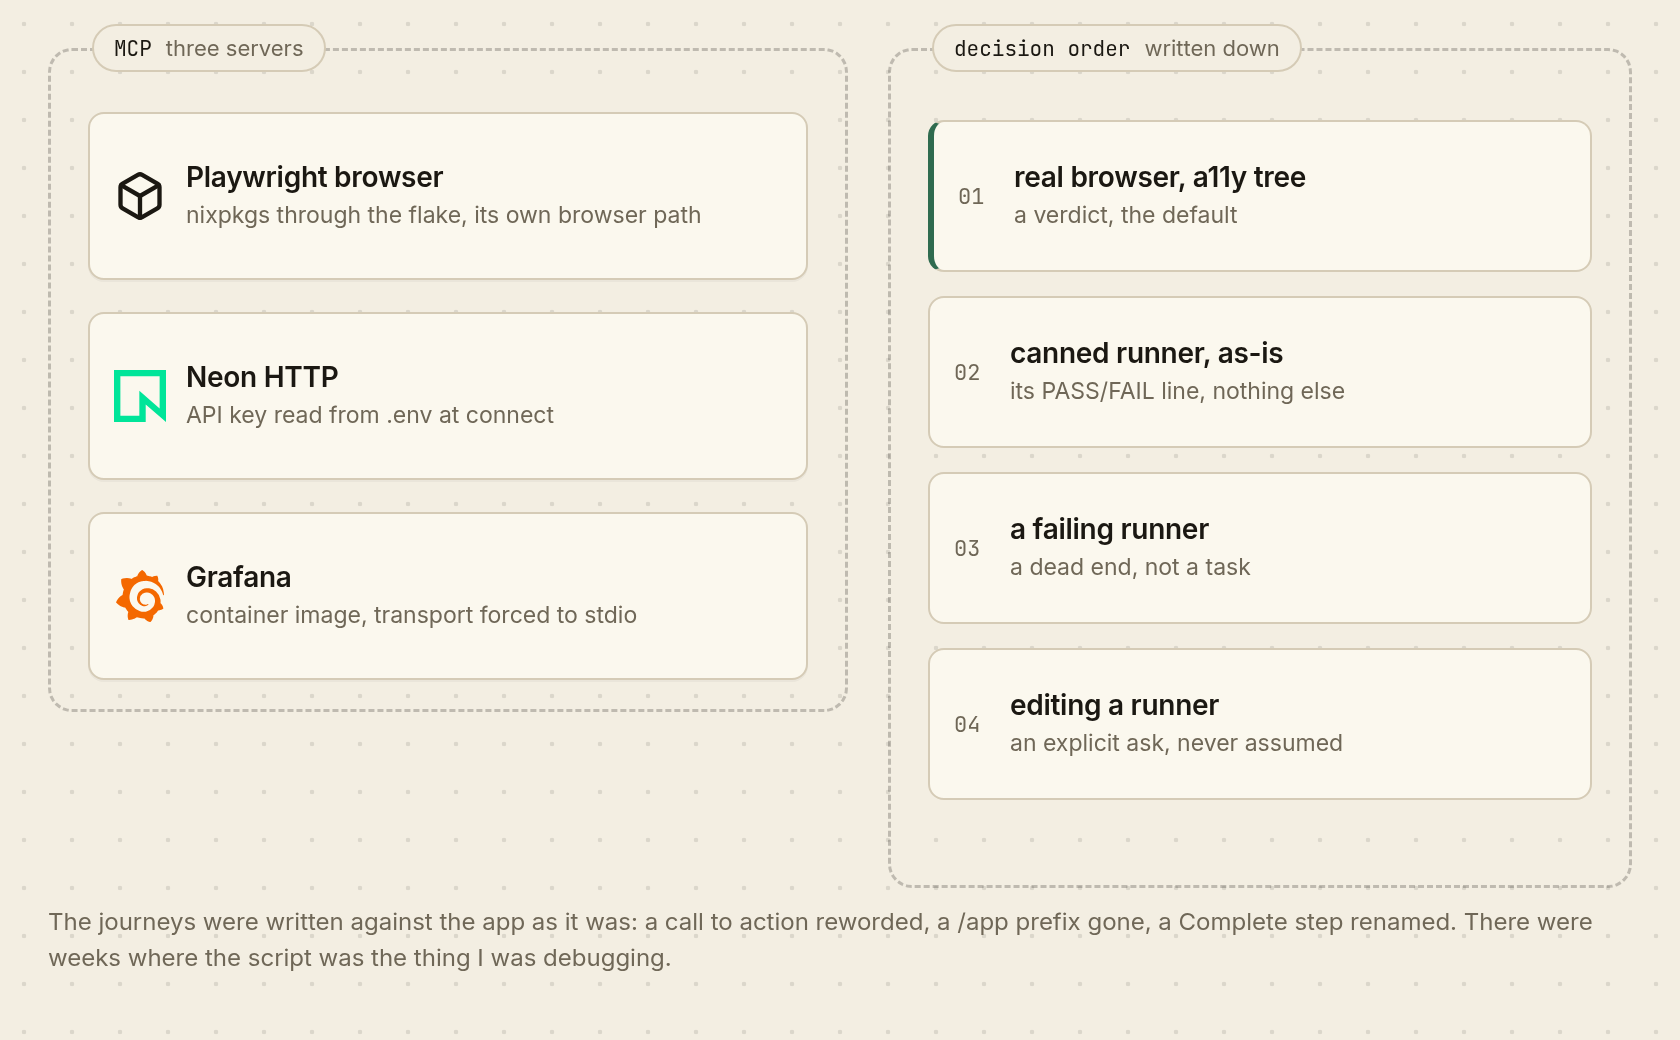
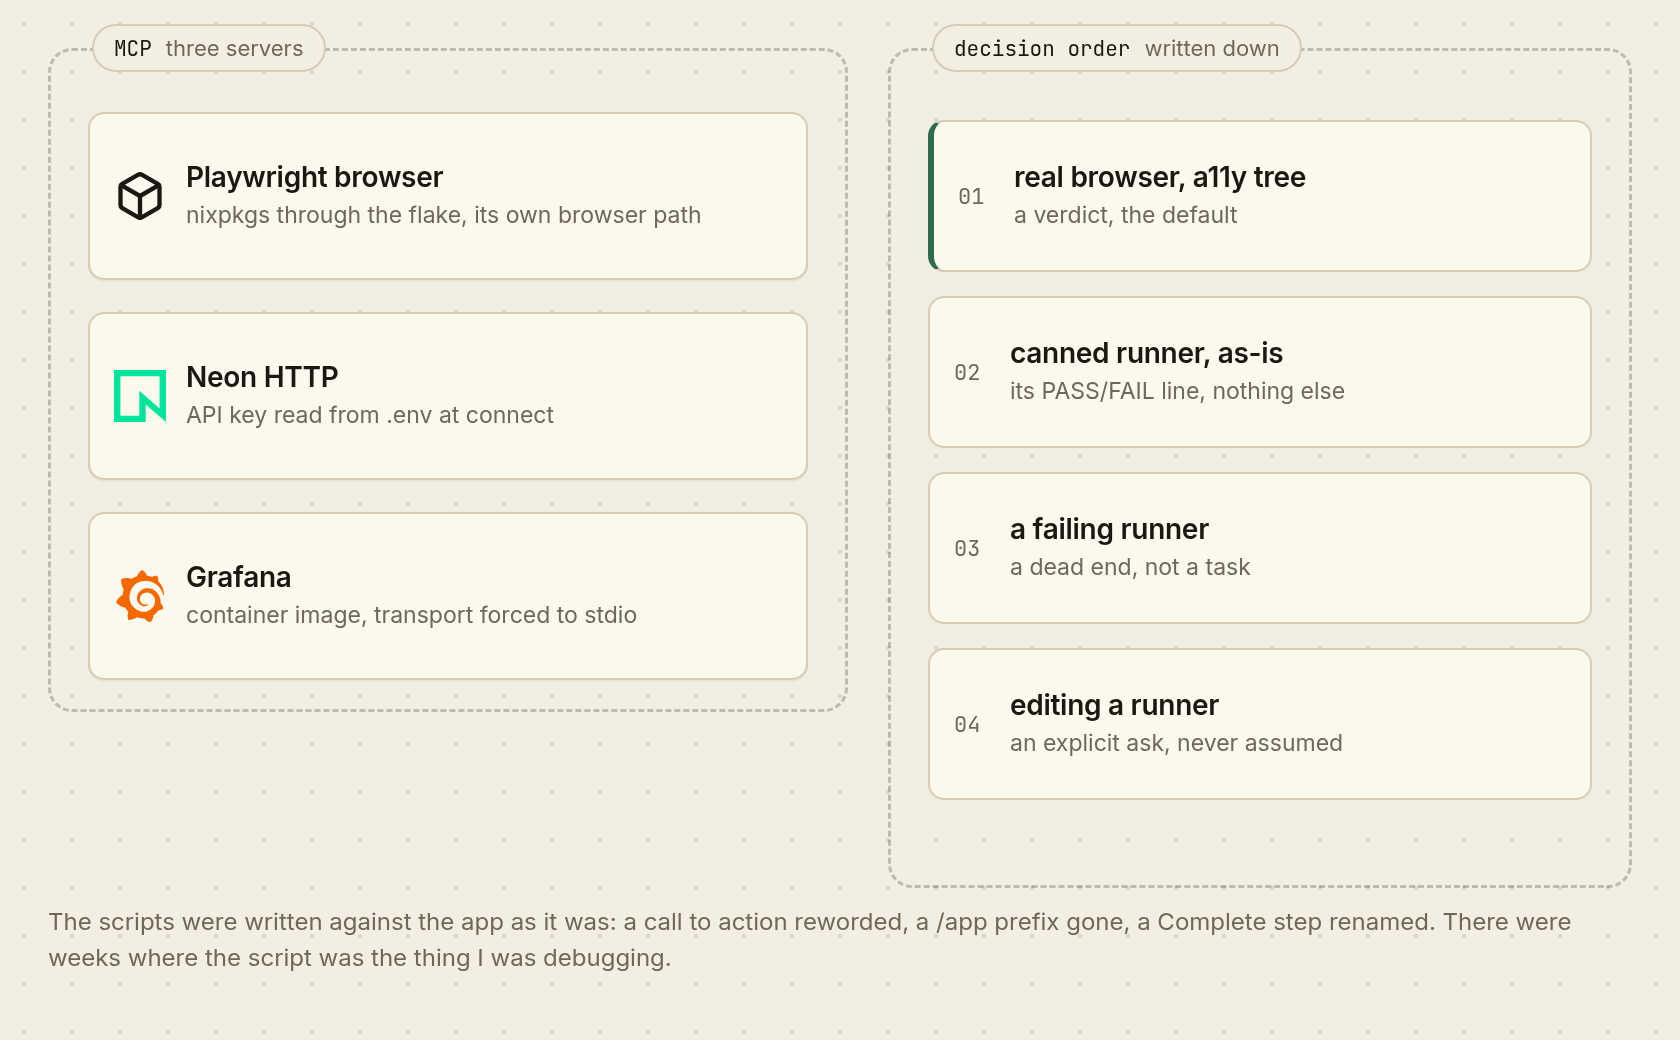
fix(diagrams): replace the banned word in the runner note

Changed region(s): [[0.0619, 0.8615, 0.9286, 0.8923]]

diff --git a/frontend/scripts/diagrams/shipping-runner-order.html b/frontend/scripts/diagrams/shipping-runner-order.html
@@ -152,7 +152,7 @@
     </div>
 
     <div class="note" style="left:24px; top:452px; width:792px;">
-        The journeys were written against the app as it was: a call to action reworded, a /app prefix gone, a Complete step renamed. There were weeks where the script was the thing I was debugging.
+        The scripts were written against the app as it was: a call to action reworded, a /app prefix gone, a Complete step renamed. There were weeks where the script was the thing I was debugging.
     </div>
 </div>
 </body>
